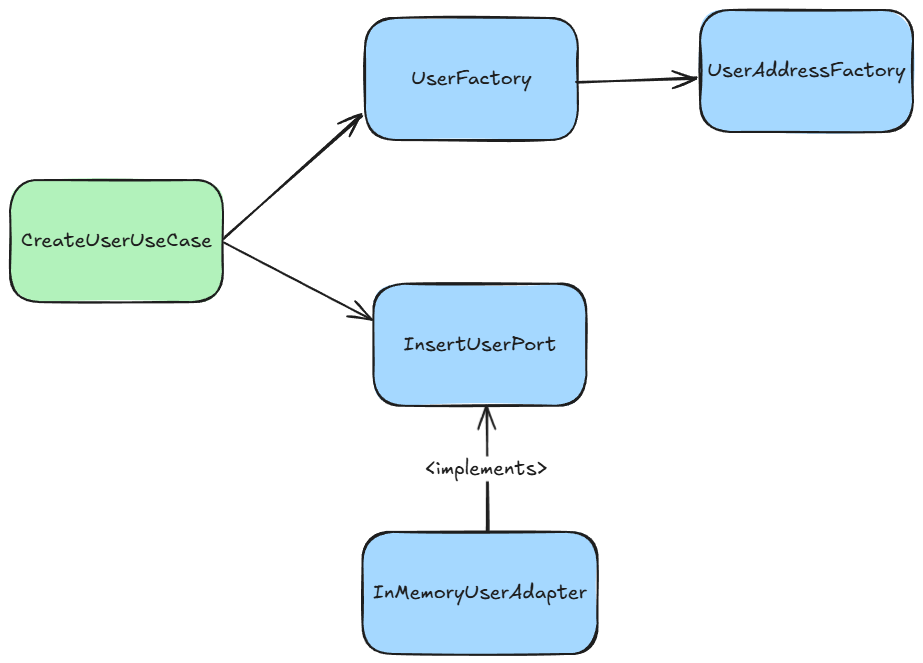
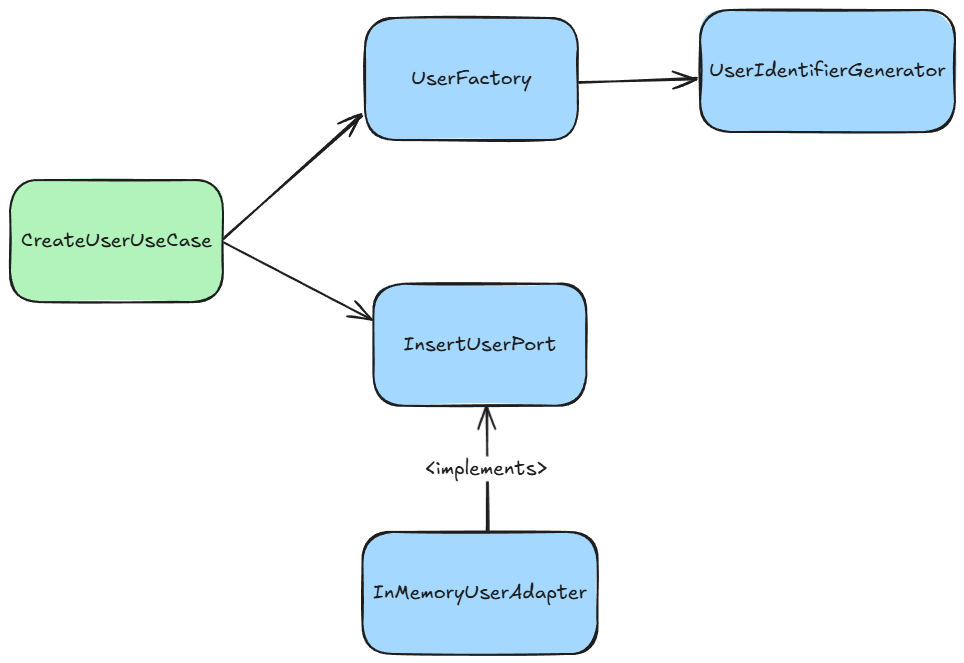
add examples in unit test, add example for sociable unit tests, enhance introduction in unit tests

diff --git a/example/src/main/java/pl/sejdii/user/application/service/CreateUserService.java b/example/src/main/java/pl/sejdii/user/application/service/CreateUserService.java
@@ -7,19 +7,19 @@ import pl.sejdii.user.application.port.out.InsertUserPort;
 
 class CreateUserService implements CreateUserUseCase {
 
-    private final UserFactory userFactory;
-    private final InsertUserPort insertUserPort;
+  private final UserFactory userFactory;
+  private final InsertUserPort insertUserPort;
 
-    CreateUserService(UserFactory userFactory, InsertUserPort insertUserPort) {
-        this.userFactory = userFactory;
-        this.insertUserPort = insertUserPort;
-    }
+  CreateUserService(UserFactory userFactory, InsertUserPort insertUserPort) {
+    this.userFactory = userFactory;
+    this.insertUserPort = insertUserPort;
+  }
 
-    @Override
-    public UserIdentifier create(Command command) {
-        User user = userFactory.create(command);
-        insertUserPort.insert(user);
+  @Override
+  public UserIdentifier create(Command command) {
+    User user = userFactory.create(command);
+    insertUserPort.insert(user);
 
-        return user.identifier();
-    }
+    return user.identifier();
+  }
 }

diff --git a/example/src/main/java/pl/sejdii/user/application/service/UserFactory.java b/example/src/main/java/pl/sejdii/user/application/service/UserFactory.java
@@ -6,15 +6,15 @@ import pl.sejdii.user.application.port.in.CreateUserUseCase;
 
 class UserFactory {
 
-    private final UserIdentifierGenerator userIdentifierGenerator;
+  private final UserIdentifierGenerator userIdentifierGenerator;
 
-    UserFactory(UserIdentifierGenerator userIdentifierGenerator) {
-        this.userIdentifierGenerator = userIdentifierGenerator;
-    }
+  UserFactory(UserIdentifierGenerator userIdentifierGenerator) {
+    this.userIdentifierGenerator = userIdentifierGenerator;
+  }
 
-    User create(CreateUserUseCase.Command command) {
-        UserIdentifier userIdentifier = userIdentifierGenerator.generate();
+  User create(CreateUserUseCase.Command command) {
+    UserIdentifier userIdentifier = userIdentifierGenerator.generate();
 
-        return new User(userIdentifier, command.firstName(), command.secondName());
-    }
+    return new User(userIdentifier, command.firstName(), command.secondName());
+  }
 }

diff --git a/example/src/main/java/pl/sejdii/user/application/port/in/CreateUserUseCase.java b/example/src/main/java/pl/sejdii/user/application/port/in/CreateUserUseCase.java
@@ -5,18 +5,18 @@ import pl.sejdii.user.application.domain.ValidationException;
 
 public interface CreateUserUseCase {
 
-    UserIdentifier create(Command command);
+  UserIdentifier create(Command command);
 
-    record Command(String firstName, String secondName) {
+  record Command(String firstName, String secondName) {
 
-        public Command {
-            if(firstName == null) {
-                throw new ValidationException("First name cannot be null");
-            }
+    public Command {
+      if (firstName == null) {
+        throw new ValidationException("First name cannot be null");
+      }
 
-            if(secondName == null) {
-                throw new ValidationException("Second name cannot be null");
-            }
-        }
+      if (secondName == null) {
+        throw new ValidationException("Second name cannot be null");
+      }
     }
+  }
 }

diff --git a/example/src/main/java/pl/sejdii/user/application/domain/User.java b/example/src/main/java/pl/sejdii/user/application/domain/User.java
@@ -2,17 +2,17 @@ package pl.sejdii.user.application.domain;
 
 public record User(UserIdentifier identifier, String firstName, String surname) {
 
-    public User {
-        if(identifier == null) {
-            throw new ValidationException("Identifier cannot be null");
-        }
-
-        if (firstName == null) {
-            throw new ValidationException("First name cannot be null");
-        }
-
-        if(surname == null) {
-            throw new ValidationException("Surname cannot be null");
-        }
+  public User {
+    if (identifier == null) {
+      throw new ValidationException("Identifier cannot be null");
     }
+
+    if (firstName == null) {
+      throw new ValidationException("First name cannot be null");
+    }
+
+    if (surname == null) {
+      throw new ValidationException("Surname cannot be null");
+    }
+  }
 }

diff --git a/example/src/main/java/pl/sejdii/user/adapter/out/memory/UserInMemoryAdapter.java b/example/src/main/java/pl/sejdii/user/adapter/out/memory/UserInMemoryAdapter.java
@@ -1,0 +1,22 @@
+package pl.sejdii.user.adapter.out.memory;
+
+import java.util.ArrayList;
+import java.util.List;
+import java.util.Optional;
+import pl.sejdii.user.application.domain.User;
+import pl.sejdii.user.application.domain.UserIdentifier;
+import pl.sejdii.user.application.port.out.InsertUserPort;
+
+public class UserInMemoryAdapter implements InsertUserPort {
+
+  private final List<User> users = new ArrayList<>();
+
+  @Override
+  public void insert(User user) {
+    users.add(user);
+  }
+
+  public Optional<User> findBy(UserIdentifier identifier) {
+    return users.stream().filter(it -> it.identifier().equals(identifier)).findAny();
+  }
+}

diff --git a/example/src/main/java/pl/sejdii/user/application/service/UserIdentifierGenerator.java b/example/src/main/java/pl/sejdii/user/application/service/UserIdentifierGenerator.java
@@ -1,14 +1,13 @@
 package pl.sejdii.user.application.service;
 
-import pl.sejdii.user.application.domain.UserIdentifier;
-
 import java.util.concurrent.atomic.AtomicInteger;
+import pl.sejdii.user.application.domain.UserIdentifier;
 
 class UserIdentifierGenerator {
 
-    private final AtomicInteger sequence = new AtomicInteger(0);
+  private final AtomicInteger sequence = new AtomicInteger(0);
 
-    UserIdentifier generate() {
-        return new UserIdentifier("EMP000"+sequence.incrementAndGet());
-    }
+  UserIdentifier generate() {
+    return new UserIdentifier("EMP000" + sequence.incrementAndGet());
+  }
 }

diff --git a/example/src/main/java/pl/sejdii/user/application/domain/UserIdentifier.java b/example/src/main/java/pl/sejdii/user/application/domain/UserIdentifier.java
@@ -2,9 +2,9 @@ package pl.sejdii.user.application.domain;
 
 public record UserIdentifier(String value) {
 
-    public UserIdentifier {
-        if(value == null || value.length() != 7) {
-            throw new ValidationException("Invalid value %s".formatted(value));
-        }
+  public UserIdentifier {
+    if (value == null || value.length() != 7) {
+      throw new ValidationException("Invalid value %s".formatted(value));
     }
+  }
 }

diff --git a/example/src/main/java/pl/sejdii/user/application/service/UserConfiguration.java b/example/src/main/java/pl/sejdii/user/application/service/UserConfiguration.java
@@ -1,0 +1,11 @@
+package pl.sejdii.user.application.service;
+
+import pl.sejdii.user.application.port.in.CreateUserUseCase;
+import pl.sejdii.user.application.port.out.InsertUserPort;
+
+class UserConfiguration {
+
+  CreateUserUseCase createUserUseCase(InsertUserPort insertUserPort) {
+    return new CreateUserService(new UserFactory(new UserIdentifierGenerator()), insertUserPort);
+  }
+}

diff --git a/example/src/main/java/pl/sejdii/user/application/domain/ValidationException.java b/example/src/main/java/pl/sejdii/user/application/domain/ValidationException.java
@@ -2,7 +2,7 @@ package pl.sejdii.user.application.domain;
 
 public class ValidationException extends RuntimeException {
 
-    public ValidationException(String message) {
-        super(message);
-    }
+  public ValidationException(String message) {
+    super(message);
+  }
 }

diff --git a/example/src/main/java/pl/sejdii/user/application/port/out/InsertUserPort.java b/example/src/main/java/pl/sejdii/user/application/port/out/InsertUserPort.java
@@ -4,5 +4,5 @@ import pl.sejdii.user.application.domain.User;
 
 public interface InsertUserPort {
 
-    void insert(User user);
+  void insert(User user);
 }

diff --git a/unit/unit_tests.md b/unit/unit_tests.md
@@ -1,11 +1,48 @@
-# Types of unit tests
+# Unit tests
 
-Unit tests form the foundation of the testing pyramid. They should constitute the majority of the tests in a project, as
-they are designed to be fast, stable, and inexpensive to run.
+Unit tests form the foundation of the testing pyramid. They should constitute the majority of the tests in a project, as they are designed to be fast, stable, and inexpensive to run.
+
+The term "unit" itself is quite vague and can be misleading—it doesn't refer solely to a single class or method, as is often assumed. A unit can be:
+- A single class,
+- A group of classes,
+- A module,
+- An aggregate (in the context of Domain-Driven Design, DDD).
+
+However, the size of the unit is a secondary consideration. What matters most are the characteristics of unit tests, as summarized by the F.I.R.S.T. principle from Robert C. Martin's *Clean Code* book:
+- **Fast:** Unit tests should execute quickly.
+- **Independent:** They should not depend on each other; each test must be able to run in isolation.
+- **Repeatable:** They should produce the same result every time they are run, regardless of the environment.
+- **Self-Validating:** Tests should automatically determine whether they pass or fail, without requiring manual inspection—fortunately, this is standard practice nowadays.
+- **Timely:** Tests should be written before the production code they verify, a key principle of Test-Driven Development (TDD). Even if you don't practice TDD, tests should still be written within the same time frame as the code they validate. Writing tests should not be postponed or moved to a separate task or ticket.
+
+We can distinguish between two styles of unit tests: **solitary** and **sociable**, depending on how they handle the dependencies of the class under the test.
 
 ## Solitary unit tests
 
 ![solitary tests](solitary_unit_test.png)
+
+```groovy
+def "Should create user"() {
+    given: "Command of user creation"
+    def command = new CreateUserUseCase.Command(FIRST_NAME, LAST_NAME)
+
+    this.userFactory.create(command) >> new User(new UserIdentifier(GENERATED_IDENTIFIER), FIRST_NAME, LAST_NAME)
+
+    when: "User is created"
+    def identifier = createUserUseCase.create(command)
+
+    then: "Identifier is generated"
+    identifier.value() == GENERATED_IDENTIFIER
+
+    and: "User is inserted into repository"
+    1 * insertUserPort.insert(_ as User) >> { User user ->
+        assert user.identifier().value() == GENERATED_IDENTIFIER
+        assert user.firstName() == FIRST_NAME
+        assert user.surname() == LAST_NAME
+        return user.identifier()
+    }
+}
+```
 
 Solitary unit tests—also known as the mockist style - rely on mocking every dependency. The idea is to isolate the unit
 under test from its collaborators.
@@ -27,6 +64,27 @@ under test from its collaborators.
 ## Sociable unit tests
 
 ![sociable tests](sociable_unit_test.png)
+
+```groovy
+def "Should create user"() {
+    given: "Command of user creation"
+    def command = new CreateUserUseCase.Command(FIRST_NAME, LAST_NAME)
+
+    when: "User is created"
+    def identifier = createUserUseCase.create(command)
+
+    then: "Identifier is generated"
+    identifier.value() == GENERATED_IDENTIFIER
+
+    and: "User is inserted into repository"
+    def userByIdentifier = userInMemoryAdapter.findBy(identifier)
+    userByIdentifier.isPresent()
+
+    def user = userByIdentifier.get()
+    user.firstName() == FIRST_NAME
+    user.surname() == LAST_NAME
+}
+```
 
 Sociable unit tests, sometimes referred to as the classicist style, do not rely on mocking dependencies. Instead, they
 use real implementations for components, or lightweight in-memory substitutes for external systems like databases. These
@@ -107,3 +165,5 @@ https://martinfowler.com/bliki/UnitTest.html
 [Improving your Test Driven Development in 45 minutes - Jakub Nabrdalik](https://www.youtube.com/watch?v=2vEoL3Irgiw)
 
 [Does TDD Really Lead to Good Design? (Sandro Mancuso)](https://youtu.be/KyFVA4Spcgg?si=S5eOo9rR9g4rYP_e)
+
+[Clean Code: A Handbook of Agile Software Craftsmanship (Rober C. Martin)](https://www.amazon.pl/Clean-Code-Handbook-Software-Craftsmanship/dp/0132350882)
